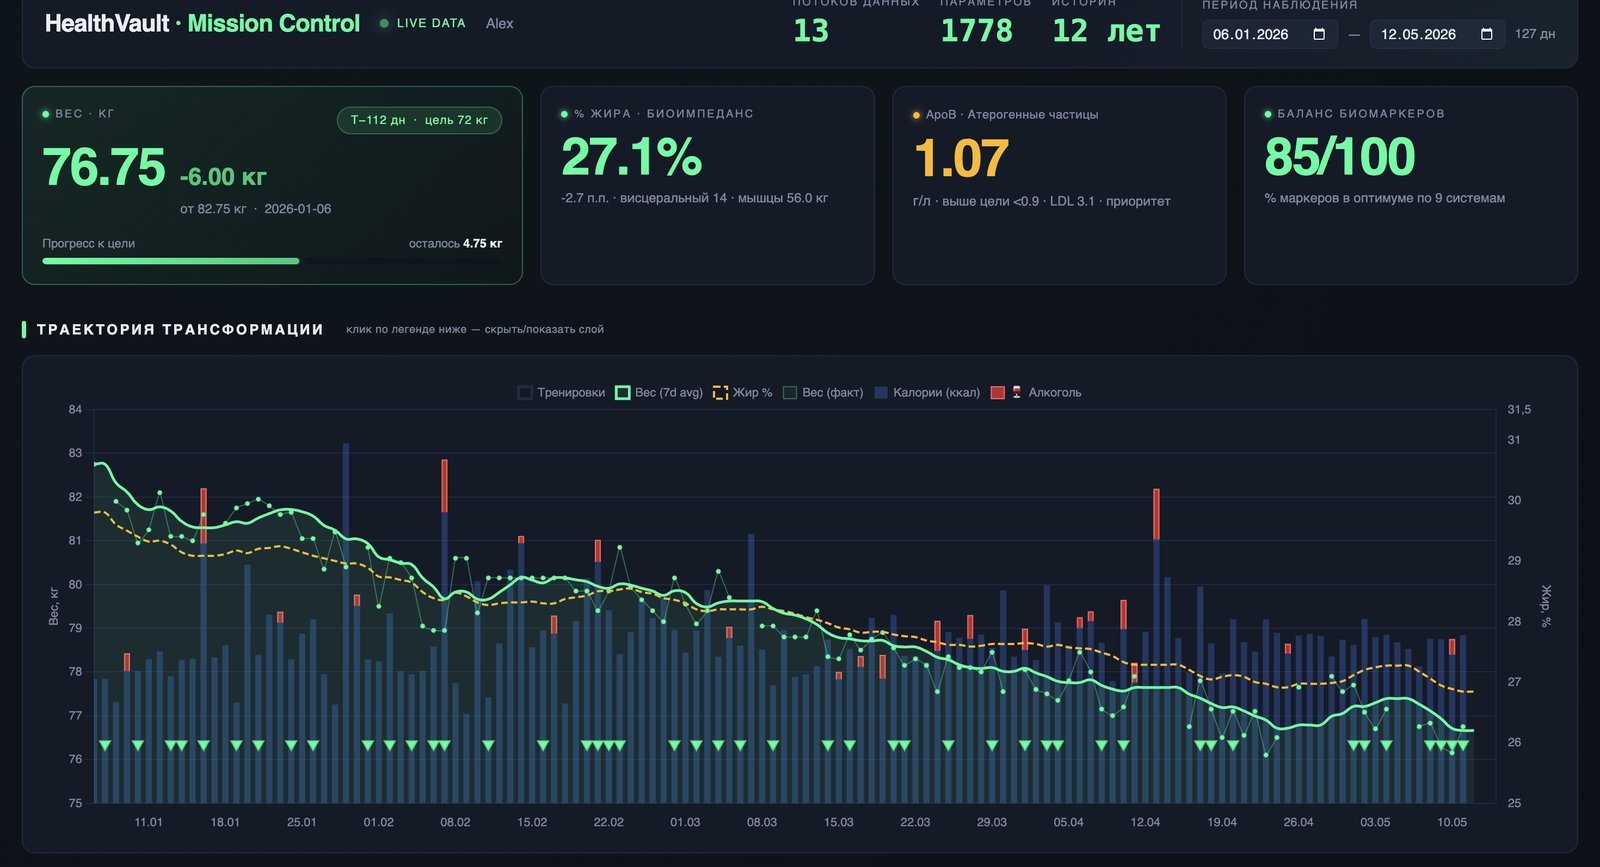
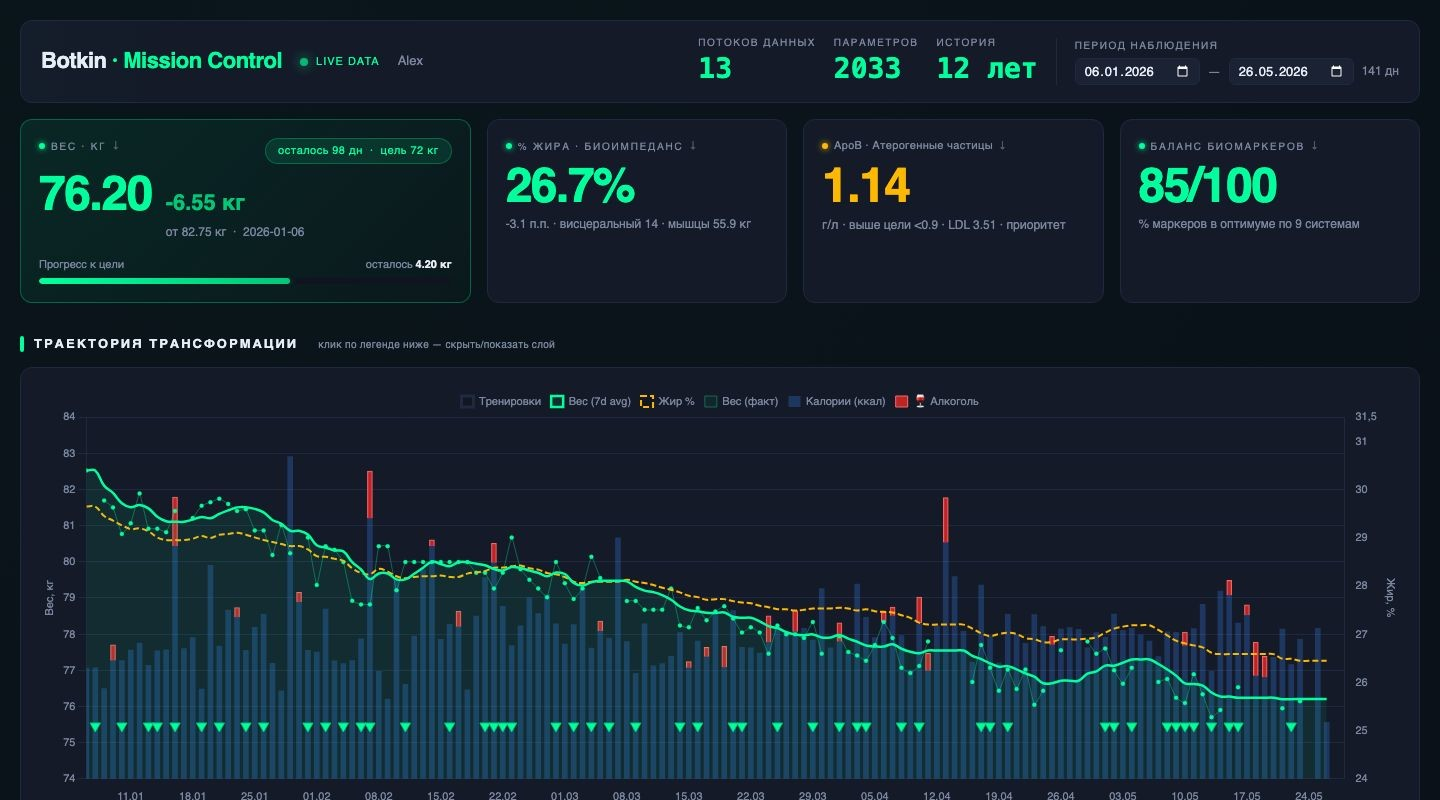
feat(landing): AI-врач framing + real dashboard screenshots
- Hero subtitle → фокус на AI-враче и биомаркерах вместо «ещё один логгер»
- Стата: «1 мин до первого лога» → «200+ видов биомаркеров»
- AI-карта: «AI-помощник» → «AI-врач BotkinClaw» с примерами вопросов
- H2: «Четыре куска одной системы» → «Не трекер еды — полная картина здоровья»
- Step 4: примеры вопросов про ApoB/анализы/биомаркеры вместо общих
- FAQ: добавил про мультипоколенную семейную базу
- Gallery: 3 мобильных скрина → 5 (3 wide дашборд 16:9 + 2 mini-app)
  - dashboard-hero.jpg: KPI тайлы + траектория трансформации
  - dashboard-activity.jpg: Body Battery, HRV, сон, тренировки, КБЖУ
  - dashboard-biomarkers.jpg: радар-чарт + PhenoAge 35.7 лет
- Footer: версия v0.6.1, дата 26.05.2026

diff --git a/docs/landing/index.html b/docs/landing/index.html
@@ -376,9 +376,9 @@ footer .bottom {
       <div class="eyebrow">Open Source · Personal AI · Longevity</div>
       <h1>Твой <span class="accent">персональный AI-помощник</span> для здоровья и долголетия</h1>
       <p class="subtitle">
-        Логируешь питание и лекарства в Telegram — фотками, голосом или текстом.
-        Часы, тонометр и весы шлют данные автоматически.
-        AI помогает разобраться, что с этим делать — в боте, в Claude или Gemini.
+        Персональный AI-врач, который знает твои данные: питание, анализы, давление,
+        сон, шаги, биомаркеры за годы. Часы и весы шлют всё автоматически.
+        Задаёшь вопрос в чате — получаешь ответ по своим данным, а не общие слова.
       </p>
       <div class="cta-row">
         <a href="https://t.me/Botkin_md_bot" class="btn primary">
@@ -398,8 +398,8 @@ footer .bottom {
           <div class="l">приёмов пищи распознано</div>
         </div>
         <div class="stat">
-          <div class="n">1 мин</div>
-          <div class="l">от Start до первого лога</div>
+          <div class="n" id="bio-counter">200+</div>
+          <div class="l">видов биомаркеров</div>
         </div>
       </div>
     </div>
@@ -421,10 +421,10 @@ footer .bottom {
 <section id="what">
 <div class="container">
   <div class="eyebrow">Что это</div>
-  <h2>Четыре куска одной системы</h2>
+  <h2>Не трекер еды — полная картина здоровья</h2>
   <p class="lead">
-    Не отдельное приложение — а связанная инфраструктура: Telegram-бот для повседневного логирования,
-    мини-апп и дашборд для просмотра, AI-помощник для разбора, открытая база знаний для команды.
+    Питание, анализы, давление, сон, активность, биомаркеры в динамике — всё в одном месте.
+    Telegram-бот для повседневного ввода, дашборд с графиками за годы, AI-врач для разбора.
   </p>
 
   <div class="features">
@@ -440,8 +440,8 @@ footer .bottom {
     </div>
     <div class="feature">
       <div class="icon">🧠</div>
-      <h3>AI-помощник</h3>
-      <p>Внутри бота уже отвечает на любые вопросы про твои данные. Подключение из Claude, Gemini или Cursor — в бете для приглашённых.</p>
+      <h3>AI-врач BotkinClaw</h3>
+      <p>Живой AI-консультант прямо в боте. Спроси «что с моим ApoB?», «почему вырос холестерин?», «оцени мой последний анализ» — он знает твою историю и отвечает по делу.</p>
     </div>
     <div class="feature">
       <div class="icon">📂</div>
@@ -525,7 +525,7 @@ footer .bottom {
     <div class="step">
       <span class="num">04</span>
       <h3>Просто говоришь с ним</h3>
-      <p>Пишешь ему в чат как другу: «как мой сон?», «достаточно ли я ем белка?», «давай поставим цель похудеть к лету». Он смотрит в твои данные и отвечает по делу, а не общими словами. А когда хочется графиков — открываешь большой дашборд в браузере.</p>
+      <p>Пишешь в чат: «объясни мой последний анализ крови», «почему вырос ApoB?», «сравни биомаркеры с прошлым годом», «как мой сон на этой неделе?». BotkinClaw смотрит в твои данные и отвечает конкретно. А когда хочется графиков за годы — открываешь дашборд в браузере.</p>
     </div>
   </div>
 
@@ -602,40 +602,59 @@ flowchart LR
 <section>
 <div class="container">
   <div class="eyebrow">Как это выглядит</div>
-  <h2>Скриншоты</h2>
-  <p class="lead">Реальные экраны бота и mini-app.</p>
+  <h2>Реальные экраны</h2>
+  <p class="lead">Дашборд, биомаркеры, активность, дневник питания и добавки — всё живое, не мокапы.</p>
 
   <div class="gallery">
-    <div class="shot">
-      <div class="img-wrap">
-        <img src="../user_guide/screenshots/miniapp-diary.png" alt="Mini-app: Дневник питания"
-             onerror="this.parentElement.innerHTML='📱 Mini-app — Дневник<br><span style=&quot;font-size:11px&quot;>скрин будет здесь</span>';">
+    <div class="shot" style="grid-column: span 2;">
+      <div class="img-wrap wide">
+        <img src="assets/dashboard-hero.jpg" alt="Botkin Mission Control — KPI тайлы: вес, жир%, ApoB, баланс биомаркеров + траектория трансформации">
       </div>
       <div class="caption">
-        <h4>Дневник питания</h4>
-        <p>Дневная норма, приёмы пищи, прогресс по БЖУ — всё на одном экране в Telegram.</p>
+        <h4>Mission Control — главный дашборд</h4>
+        <p>Вес, % жира, ApoB, баланс биомаркеров — 4 ключевых KPI на одном экране. Ниже — траектория трансформации за 141 день с тренировками, калориями и алкоголем.</p>
+      </div>
+    </div>
+
+    <div class="shot" style="grid-column: span 2;">
+      <div class="img-wrap wide">
+        <img src="assets/dashboard-activity.jpg" alt="Botkin — восстановление, активность, питание: Body Battery, HRV, сон, шаги, КБЖУ">
+      </div>
+      <div class="caption">
+        <h4>Восстановление и активность</h4>
+        <p>Body Battery, HRV, сон, пульс покоя, стресс, давление — всё из часов и тонометра. Тренировки по типам, шаги, КБЖУ дня, белок к цели.</p>
+      </div>
+    </div>
+
+    <div class="shot" style="grid-column: span 2;">
+      <div class="img-wrap wide">
+        <img src="assets/dashboard-biomarkers.jpg" alt="Botkin — биомаркеры: радар-чарт по системам, PhenoAge биологический возраст 35.7 лет">
+      </div>
+      <div class="caption">
+        <h4>Биомаркеры и биологический возраст</h4>
+        <p>Радар-чарт баланса по 9 системам (метаболизм, липиды, печень, гормоны…). PhenoAge Clock: биологических 35.7 лет при паспортных 49. Панели Attia, LE8, ASCVD, SCORE2.</p>
       </div>
     </div>
 
     <div class="shot">
       <div class="img-wrap">
-        <img src="../user_guide/screenshots/miniapp-supps.png" alt="Mini-app: Добавки и лекарства"
-             onerror="this.parentElement.innerHTML='💊 Mini-app — Добавки<br><span style=&quot;font-size:11px&quot;>скрин будет здесь</span>';">
+        <img src="../user_guide/screenshots/miniapp-diary.png" alt="Mini-app: Дневник питания"
+             onerror="this.parentElement.innerHTML='📱 Mini-app — Дневник';">
+      </div>
+      <div class="caption">
+        <h4>Дневник питания</h4>
+        <p>Дневная норма, приёмы пищи, прогресс по БЖУ — прямо в Telegram.</p>
+      </div>
+    </div>
+
+    <div class="shot">
+      <div class="img-wrap">
+        <img src="../user_guide/screenshots/miniapp-supps.png" alt="Mini-app: Добавки"
+             onerror="this.parentElement.innerHTML='💊 Mini-app — Добавки';">
       </div>
       <div class="caption">
         <h4>Добавки и лекарства</h4>
         <p>Чек-листы по слотам (утро/обед/вечер/ночь), прогресс «Принято сегодня».</p>
-      </div>
-    </div>
-
-    <div class="shot">
-      <div class="img-wrap">
-        <img src="../user_guide/screenshots/chat-food.jpg" alt="Распознавание еды по фото в чате"
-             onerror="this.parentElement.innerHTML='📸 Распознавание еды<br><span style=&quot;font-size:11px&quot;>скрин будет здесь</span>';">
-      </div>
-      <div class="caption">
-        <h4>Распознавание еды</h4>
-        <p>Отправь фото блюда — бот определит состав, оценит порцию, посчитает КБЖУ.</p>
       </div>
     </div>
   </div>
@@ -817,7 +836,7 @@ flowchart LR
 
   <details class="faq-item">
     <summary>Это медицинский совет?</summary>
-    <p>Нет. Боткин — твой персональный аналитик собственных данных о здоровье: ведёт дневник еды, добавок и давления, автоматически собирает сон, HRV, шаги, вес и состав тела с часов и весов, хранит анализы из лабораторий. Замечает связи между потоками, объясняет биомаркеры, считает биологический возраст и риски по канонам <a href="https://peterattiamd.com/" target="_blank" rel="noopener">Attia</a> и <a href="https://www.heart.org/en/healthy-living/healthy-lifestyle/lifes-essential-8" target="_blank" rel="noopener">Life's Essential 8</a>, помогает задавать врачу правильные вопросы. Но диагнозы, дозировки и назначения — всегда у твоего врача.</p>
+    <p>Нет. Боткин — твой персональный аналитик собственных данных о здоровье: ведёт дневник еды, добавок и давления, автоматически собирает сон, HRV, шаги, вес и состав тела с часов и весов, хранит анализы из лабораторий. Замечает связи между потоками, объясняет биомаркеры, считает биологический возраст и риски по канонам <a href="https://peterattiamd.com/" target="_blank" rel="noopener">Attia</a> и <a href="https://www.heart.org/en/healthy-living/healthy-lifestyle/lifes-essential-8" target="_blank" rel="noopener">Life's Essential 8</a>, помогает задавать врачу правильные вопросы. Но диагнозы, дозировки и назначения — всегда у твоего врача. У Botkin уже есть активные пользователи нескольких поколений одной семьи — от 21 до 70+ лет. Каждый получает персонализированные инсайты по своим данным.</p>
   </details>
 
   <details class="faq-item">
@@ -874,7 +893,7 @@ flowchart LR
   </div>
   <div class="bottom">
     <span>© 2026 Александр Лысковский. AGPL-3.0.</span>
-    <span class="mono">Botkin v0.6.0 · обновлено 21.05.2026</span>
+    <span class="mono">Botkin v0.6.1 · обновлено 26.05.2026</span>
   </div>
 </div>
 </footer>